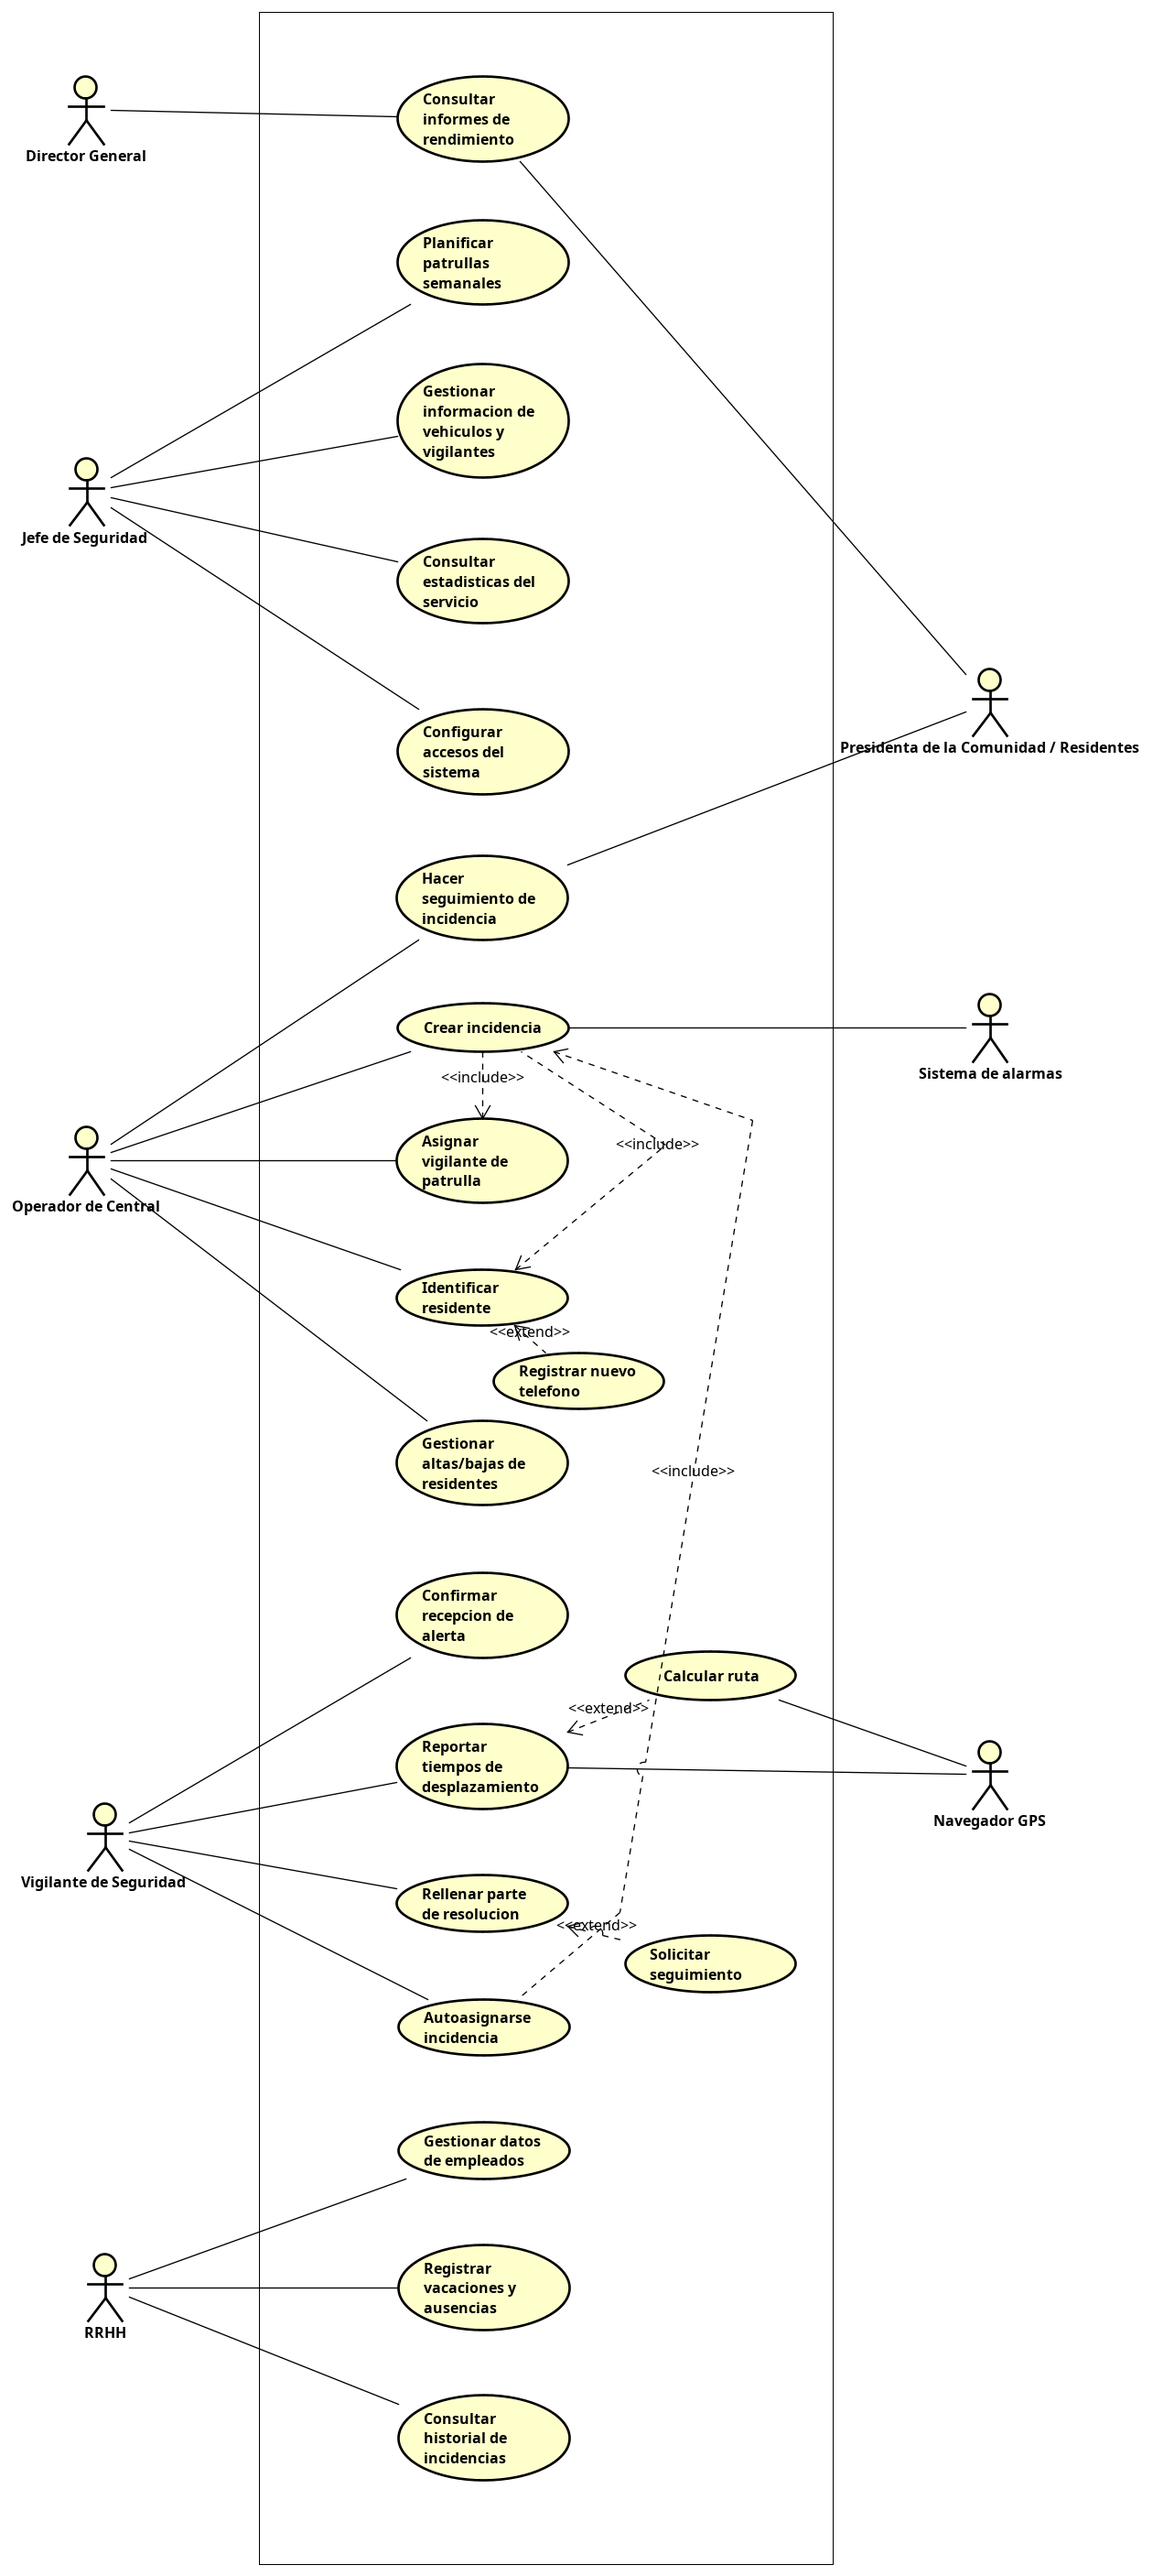
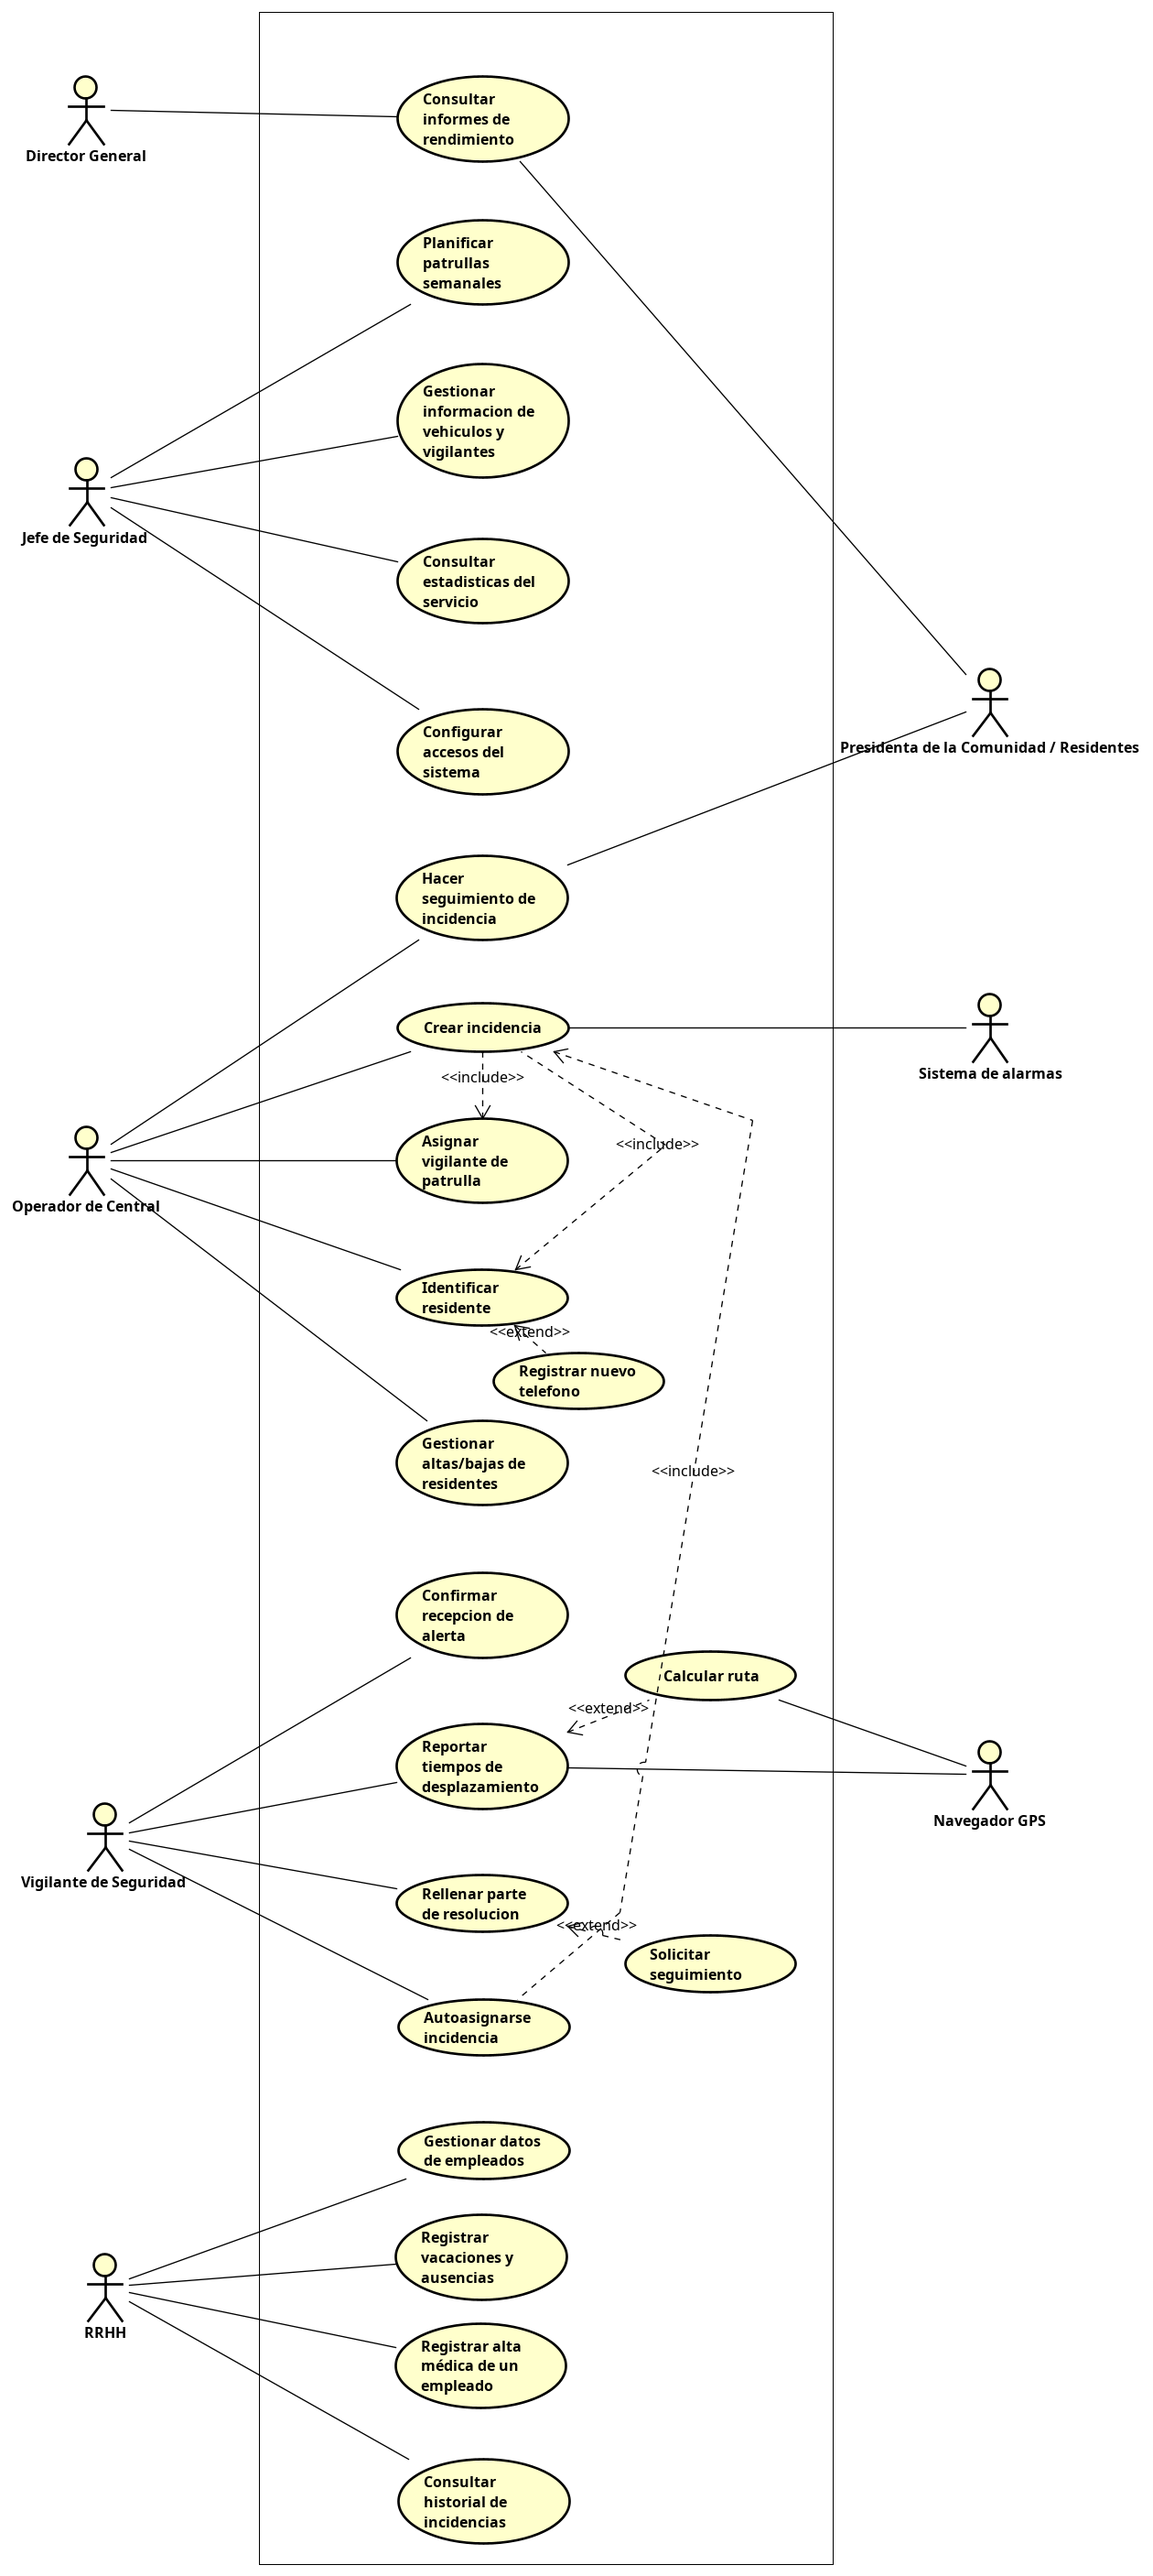
Defensa

Changed region(s): [[0.3405, 0.8351, 0.4952, 0.9897], [0.1238, 0.866, 0.1548, 0.8969]]

diff --git a/docs/08_requisitos_no_funcionales.md b/docs/08_requisitos_no_funcionales.md
@@ -5,18 +5,21 @@ A continuación se detallan 10 requisitos que definen las restricciones y atribu
 ### Usabilidad (Usability)
 * **RNF-01 (Tiempo de entrenamiento):** El tiempo máximo de formación necesario para que un vigilante opere la aplicación móvil de forma autónoma debe ser inferior a 1 hora.
 * **RNF-02 (Facilidad de uso):** La interfaz móvil debe estar diseñada de manera que la tasa de errores operativos cometidos por un usuario sea inferior a 2 errores por cada 100 interacciones.
+* **RNF-03 (Eficiencia en el cambio de estado):** La interfaz web debe permitir al Responsable de RRHH completar el proceso de cambio de estado a "Activo" en un máximo de 3 clics desde la ficha principal del empleado.
 
 ### Rendimiento (Performance)
-* **RNF-03 (Tiempo de respuesta):** El tiempo de respuesta máximo del sistema central ante una consulta de un operador (ej. buscar a un residente en el padrón) no debe superar los 2 segundos.
-* **RNF-04 (Velocidad de procesamiento):** El servidor deberá ser capaz de procesar un mínimo de 50 transacciones por segundo en carga pico sin que el rendimiento se degrade.
+* **RNF-04 (Tiempo de respuesta):** El tiempo de respuesta máximo del sistema central ante una consulta de un operador (ej. buscar a un residente en el padrón) no debe superar los 2 segundos.
+* **RNF-05 (Velocidad de procesamiento):** El servidor deberá ser capaz de procesar un mínimo de 50 transacciones por segundo en carga pico sin que el rendimiento se degrade.
 ### Fiabilidad (Reliability)
-* **RNF-05 (Disponibilidad):** La probabilidad de que el sistema central no esté disponible para atender incidencias debe ser inferior al 0,1% mensual (Disponibilidad del 99,9%).
-* **RNF-06 (Tiempo medio entre fallos - MTBF):** El sistema debe garantizar un tiempo medio de operación ininterrumpida sin fallos críticos superior a 720 horas.
+* **RNF-06 (Disponibilidad):** La probabilidad de que el sistema central no esté disponible para atender incidencias debe ser inferior al 0,1% mensual (Disponibilidad del 99,9%).
+* **RNF-07 (Tiempo medio entre fallos - MTBF):** El sistema debe garantizar un tiempo medio de operación ininterrumpida sin fallos críticos superior a 720 horas.
+* **RNF-08 (Tiempo de procesamiento de estado):** El sistema central debe procesar el cambio de estado y actualizar la disponibilidad del empleado en la base de datos en un tiempo máximo de 2 segundos.
 
 ### Robustez y Mantenibilidad (Supportability / Robustness)
-* **RNF-07 (Tiempo de recuperación):** En caso de producirse un fallo grave o caída del servidor, el tiempo de arranque y restauración total del sistema no debe superar los 15 minutos.
+* **RNF-09 (Tiempo de recuperación):** En caso de producirse un fallo grave o caída del servidor, el tiempo de arranque y restauración total del sistema no debe superar los 15 minutos.
 
 ### Requisitos "+" y Externos (Seguridad, Interoperabilidad y Legislativos)
-* **RNF-08 (Seguridad / Protección - Sommerville):** Todas las comunicaciones y transmisiones de datos entre las aplicaciones cliente (web y móvil) y el servidor deberán estar cifradas utilizando el estándar AES-256.
-* **RNF-09 (Requisito de Interfaz / Interoperabilidad):** La aplicación móvil enviará las coordenadas del incidente a la app de navegación GPS predeterminada del dispositivo en menos de 1 segundo utilizando los comandos (URI schemes) nativos del sistema operativo.
-* **RNF-10 (Legislativo - Sommerville):** El sistema deberá almacenar y proteger los datos de carácter personal de los residentes y empleados cumpliendo estrictamente con el Reglamento General de Protección de Datos (RGPD) 2016/679 de la UE, impidiendo el acceso a los registros médicos y personales a perfiles no autorizados.
+* **RNF-10 (Seguridad / Protección - Sommerville):** Todas las comunicaciones y transmisiones de datos entre las aplicaciones cliente (web y móvil) y el servidor deberán estar cifradas utilizando el estándar AES-256.
+* **RNF-11 (Requisito de Interfaz / Interoperabilidad):** La aplicación móvil enviará las coordenadas del incidente a la app de navegación GPS predeterminada del dispositivo en menos de 1 segundo utilizando los comandos (URI schemes) nativos del sistema operativo.
+* **RNF-12 (Legislativo - Sommerville):** El sistema deberá almacenar y proteger los datos de carácter personal de los residentes y empleados cumpliendo estrictamente con el Reglamento General de Protección de Datos (RGPD) 2016/679 de la UE, impidiendo el acceso a los registros médicos y personales a perfiles no autorizados.
+* **RNF-13 (Privacidad del justificante médico):** El archivo adjunto que contiene el parte de alta médica debe almacenarse cifrado mediante el estándar AES-256, garantizando el cumplimiento del RGPD al tratarse de información de salud confidencial.

diff --git a/docs/11_descripcion_casos_uso.md b/docs/11_descripcion_casos_uso.md
@@ -47,3 +47,26 @@ El sistema ha creado un nuevo registro de incidencia con todos sus datos detalla
 * **1a, 3a-** Si el actor cancela el registro manual, el caso de uso finaliza (quedando sin efecto).
 * **1b- (Disparador por Sistema de Alarmas):** Si el inicio del caso de uso es disparado automáticamente por el Sistema de Alarmas, el sistema extrae automáticamente el identificador, el tipo y la ubicación sin necesidad de realizar el paso 2 ni el paso 3, registra directamente la incidencia (paso 4) y el caso de uso continúa por el paso 5.
 * **4a-** Si el sistema detecta que faltan campos obligatorios por rellenar, emite un mensaje informativo de error en pantalla solicitando los datos y el caso de uso continúa por el paso 3.
+
+### CU-03: Registrar alta médica (Pasar empleado a estado activo)
+
+**Descripción y disparador:** El sistema debe comportarse tal como se describe en este caso de uso cuando el Responsable de RRHH recibe el parte de alta médica de un empleado (vigilante) y necesita actualizar su estado en la base de datos para que vuelva a estar disponible para la asignación de turnos.
+**Precondición:** El actor Responsable de RRHH está autenticado en el sistema.
+
+**Secuencia normal:**
+1. El Responsable de RRHH busca y selecciona en el sistema la ficha del empleado correspondiente.
+2. El actor inicia el proceso de registro de alta médica (cambio de estado).
+3. El actor introduce la fecha efectiva de reincorporación y adjunta el archivo digital con el parte médico oficial.
+4. El sistema comprueba que el estado actual del empleado es "De baja" y valida que la fecha de caducidad de su habilitación profesional es posterior a la fecha actual (está en vigor).
+5. El sistema actualiza el estado del empleado a "Activo" y archiva el justificante médico de forma segura en su historial.
+6. El sistema envía una notificación automática el Jefe de Seguridad informando de la nueva disponibilidad del vigilante.
+7. El caso de uso finaliza con éxito.
+
+**Poscondición:**
+El empleado vuelve a constar como "Activo" (estando disponible para la planificación de patrullas), su historial de estados se ha actualizado y el alta ha quedado documentada.
+
+**Alternativas y excepciones:**
+1a, 3a- Si el actor cancela el proceso de registro, el caso de uso finaliza (quedando sin efecto).
+4a- Si el sistema comprueba que el estado actual del empleado no es "De baja", emite un mensaje informativo de error indicando que la accion no es válida y el caso de uso finaliza (quedando sin efecto).
+4b- Si el sistema comprueba que la habilitación profesional del empleado está caducada, emite un mensaje de error impidiendo el paso a estado "Activo" y solicitando la renovación previa de la licencia, y el caso de uso finaliza (quedando sin efecto)
+4c- Si el sistema detecta que el actor no ha adjuntado el documento médico obligatorio, emite un mensaje informativo en pantalla solicitando el archivo y el caso de uso continúa por el paso 3.

diff --git a/docs/12_matriz_de_incidencia.md b/docs/12_matriz_de_incidencia.md
@@ -13,16 +13,22 @@
 |RF-08|Confirmar recepción de alerta, Hacer seguimiento de incidencia|
 |RF-09|Gestionar datos de empleados|
 |RF-10|Rellenar parte de resolución|
+|RF-11|Registrar alta médica de un empleado|
+|RF-12|Registrar alta médica de un empleado|
+|RF-13|Registrar alta médica de un empleado|
 |||
 |RI-01|Gestionar datos de empleados, Registrar vacaciones y ausencias, Planificar patrullas semanales|
 |RI-02|Gestionar información de vehículos y vigilantes, Planificar patrullas semanales|
 |RI-03|Identificar residente, Gestionar altas/bajas de residentes|
 |RI-04|Crear incidencia, Consultar historial de incidencias, Rellenar parte de resolución, Hacer seguimiento de incidencia, Autoasignarse incidencia, Reportar tiempos de desplazamiento|
 |RI-05|Planificar patrullas semanales, Crear incidencia, Calcular ruta|
+|RI-06|Registrar alta médica de un empleado|
+|RI-07|Registrar alta médica de un empleado|
 |||
 |RN-01|Asignar vigilante de patrulla, Gestionar datos de empleados, Configurar accesos del sistema|
 |RN-02|Gestionar información de vehículos y vigilantes|
 |RN-03|Planificar patrullas semanales, Asignar vigilante de patrulla, Gestionar información de vehículos y vigilantes|
 |RN-04|dentificar residente, Crear incidencia, Registrar nuevo teléfono|
 |RN-05|Confirmar recepción de alerta, Hacer seguimiento de incidencia, Solicitar seguimiento|
+|RN-06|Registrar alta médica de un empleado|
 |||

diff --git a/docs/05_requisitos_funcionales.md b/docs/05_requisitos_funcionales.md
@@ -40,3 +40,15 @@ El sistema debe monitorizar las fechas de validez de la habilitación profesiona
 ## RF - 10: Informe de resolución de una incidencia
 
 El sistema debe permitir al vigilante asignado registrar el informe de resolución de una incidencia, incluyendo el tipo definitivo del incidente, descripción de lo que encontró, solucion adoptada y hora de resolución.
+
+## RF - 11: Validación de estado previo del empleado
+
+El sistema debe validar que el estado actual del empleado seleccionado sea "De baja" antes de permitir al usuario iniciar el proceso de registro de alta médica.
+
+## RF - 12: Notficación automática de reincorporación
+
+El sistema debe enviar una notificación automática al Jefe de Seguridad en el mismo momento en que el empleado pasa a estar "Activo", para que pueda incluirlo inmediatamente en la planificación de los siguientes turnos de patrulla.
+
+## RF - 13: Registro documental de alta médica
+
+El sistema debe permitir al Responsable de RRHH adjuntar y guardar un archivo (PDF o imagen) con el parte de alta médica oficial dentro del expediente del trabajador.

diff --git a/docs/06_requisitos_de_informacion.md b/docs/06_requisitos_de_informacion.md
@@ -40,6 +40,21 @@ El sistema debe almacenar la siguiente información de las comunidades de propie
 2- Datos del contrato: número de patrullas semanales y tiempos de respuesta comprometidos ante incidencias.  
 3- Alarmas de zonas comunes: listado de las alarmas instaladas en el perímetro o zonas compartidas (vallas, club social, entrada), incluyendo su identificador, el lugar donde están y sus coordenadas GPS.
 
+## RI - 06: Datos de Alta Médica
+
+El sistema deberá almacenar la información vinculada al Alta Médica, incluyendo:
+
+1- Fecha efectiva de reincorporación al puesto.
+2- Identificador del usuario de RRHH que regisra el alta.
+3- El archivo digital del jusrificante médico.
+
+## RI - 07: Historial de Estados del Empleado
+
+El sistema deberá mantener un Historial de Estados, almacenando para cada cambio: 
+1- El estado anterior (Ej. De baja).
+2- El nuevo estado (Ej. Activo).
+3- La fecha y la hora exacta en la que se produjo la modificación.
+
 
 
 

diff --git a/docs/07_reglas_de_negocio.md b/docs/07_reglas_de_negocio.md
@@ -24,3 +24,7 @@ El sistema solo realizará la identificación automática del residente (mostran
 
 Asegurar que los avisos se atiendan rápido y que ninguna emergencia se quede sin respuesta por un descuido.
 El sistema controlará cuánto tarda un vigilante en aceptar un aviso en su móvil. Si pasan más de 2 minutos sin que el vigilante confirme que lo ha recibido, el sistema enviará una alerta automática a la central para que el operador pueda pasarle el trabajo a otro compañero disponible de inmediato.
+
+## RN - 06: Renovación obligatoria de habilitación tras inactividad
+
+Por normativa de seguridad privada, un vigilante no puede operar si su carnet caducó mientras estaba convaleciente. El sistema hará cumplir esta regla comprobando la fecha de caducidad de la habilitación profesional en el momento de registrar el alta; si está caducada, el sistema impedirá pasar al empleado al estado "Activo" y exigirá renovar la licencia primero.
